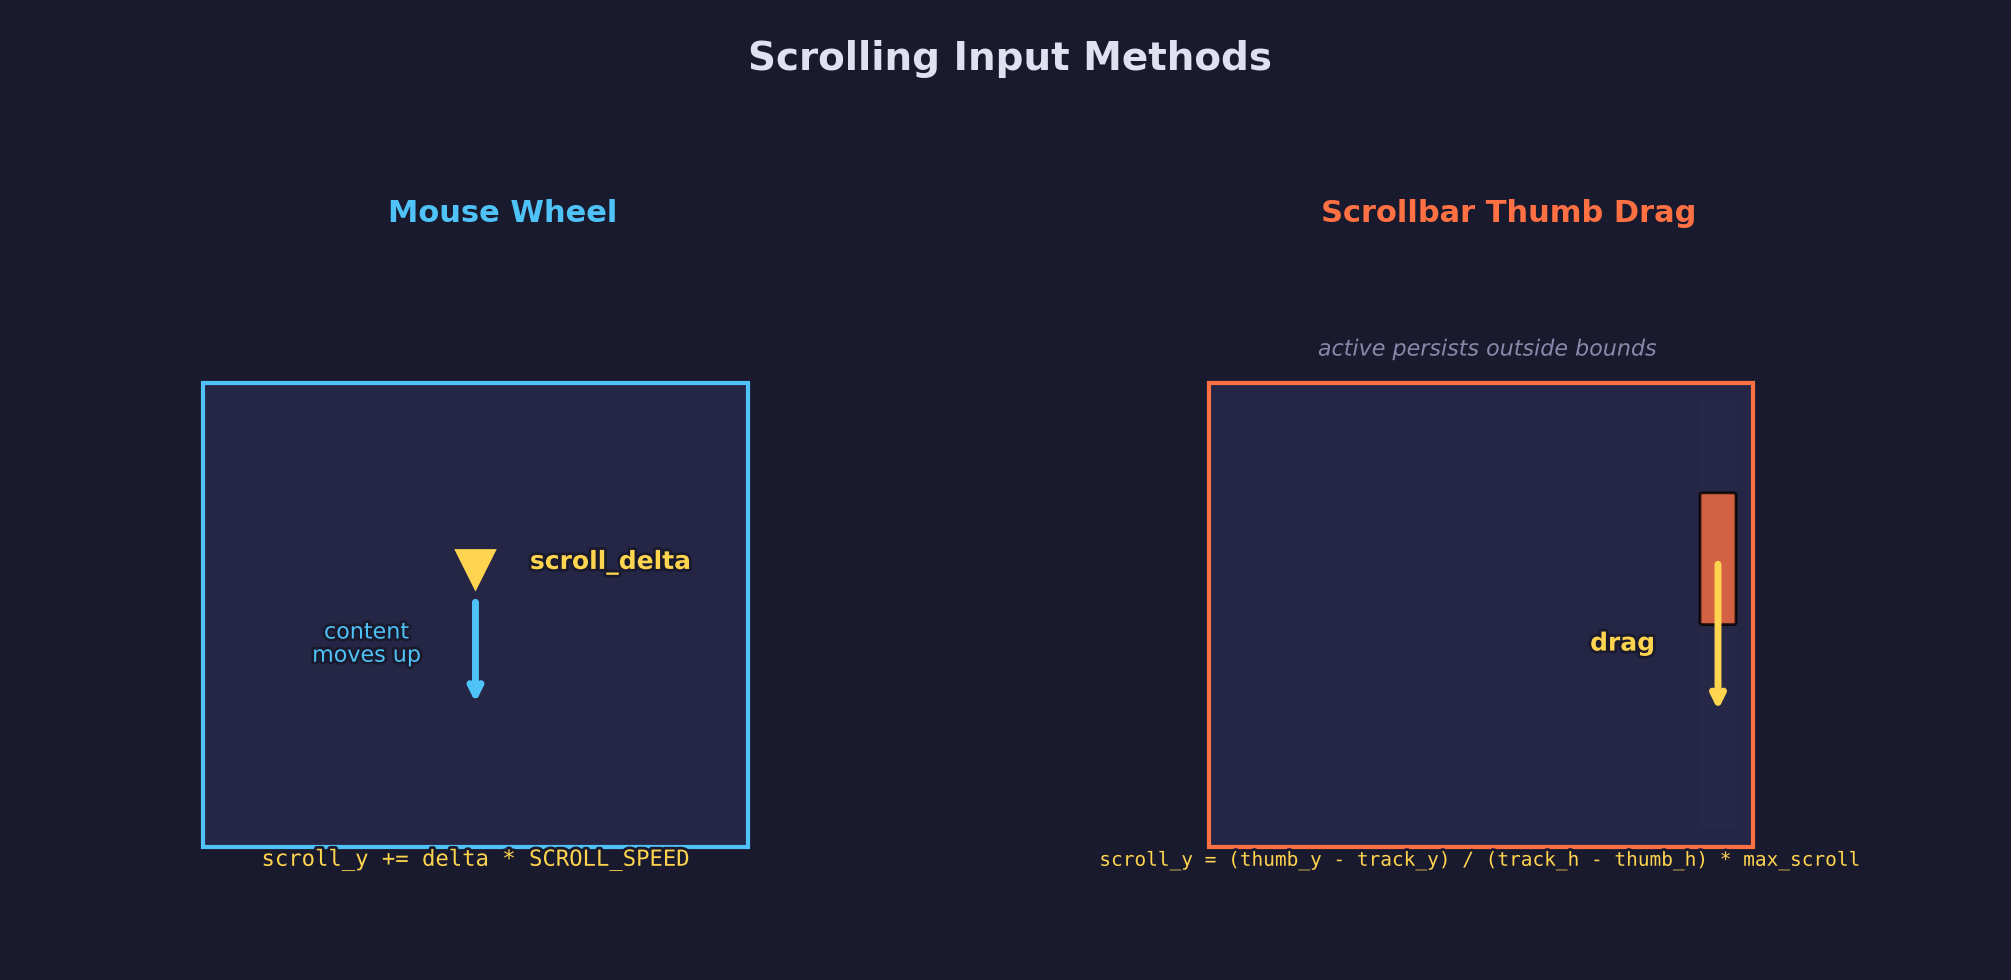
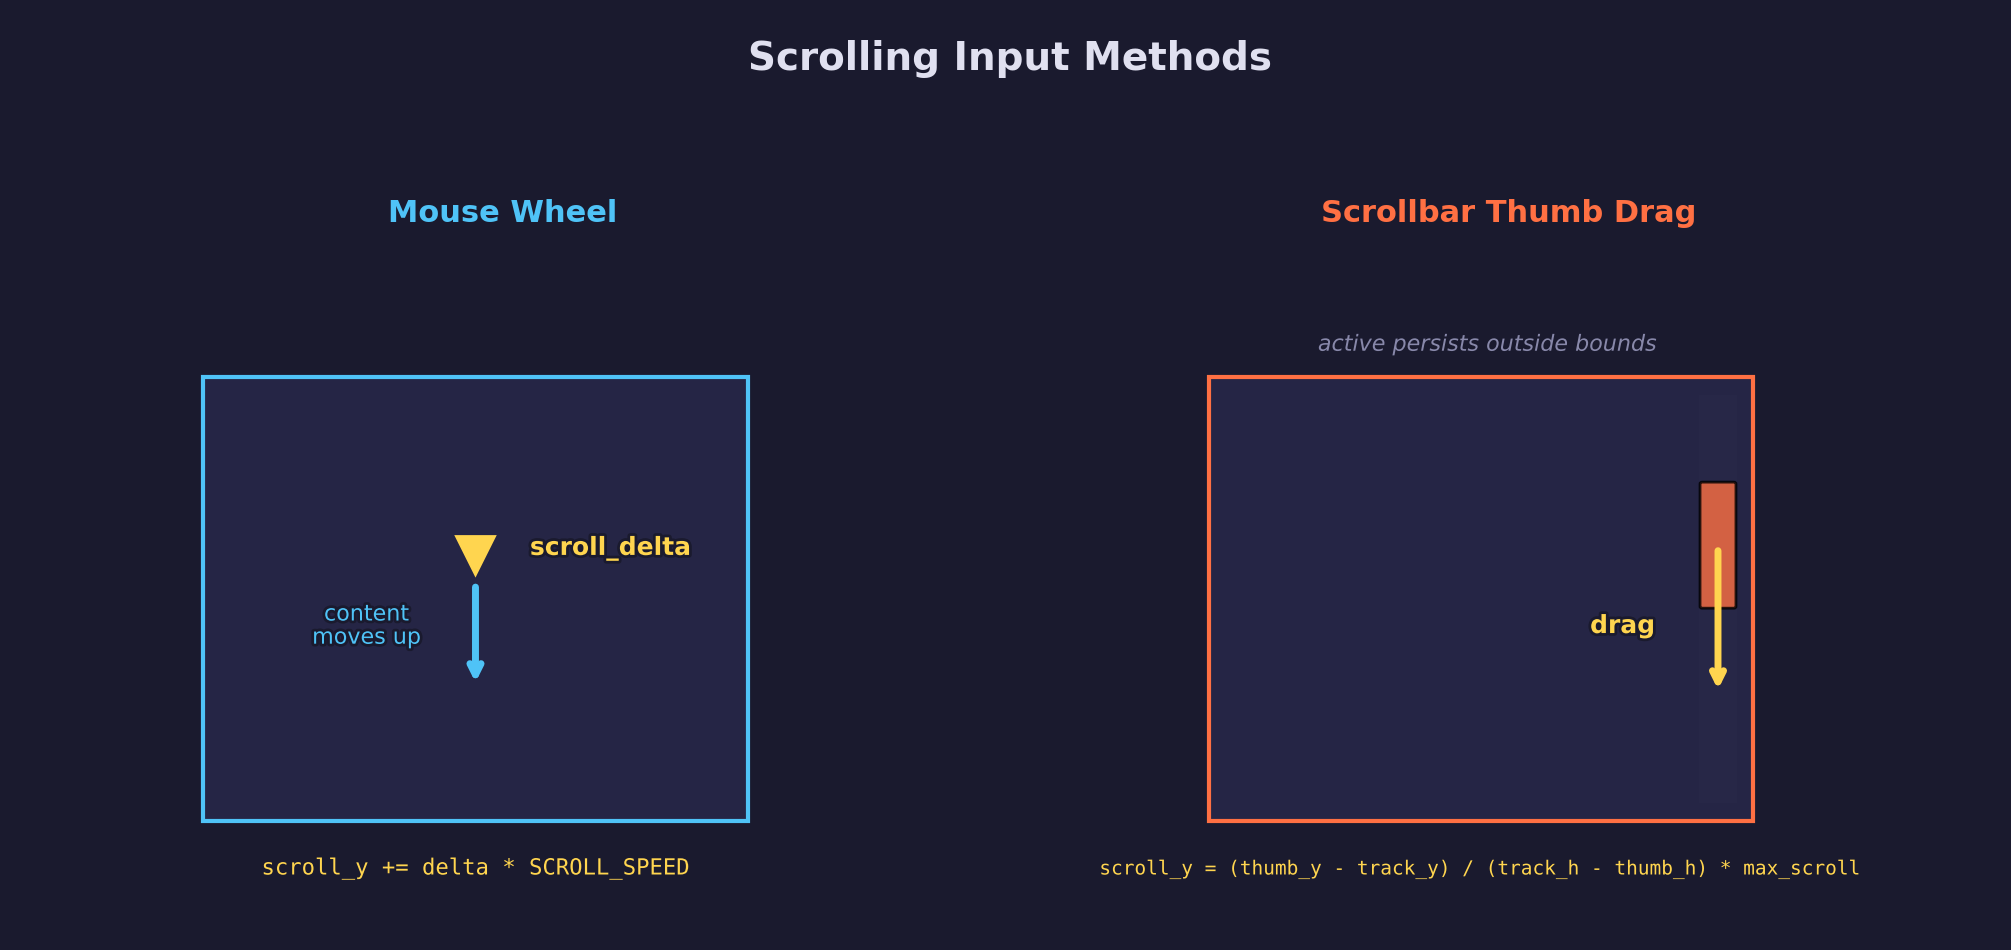
Add padding between formula text and panel boxes in mouse_wheel_and_drag diagram
Move formula labels further below panel rectangles (py - 0.2 -> py - 0.6)
and increase bottom layout margin for breathing room.

https://claude.ai/code/session_01VjDNHe66SCPNVGyREp9o5a

diff --git a/scripts/forge_diagrams/ui_diagrams.py b/scripts/forge_diagrams/ui_diagrams.py
@@ -7077,7 +7077,7 @@ def diagram_mouse_wheel_and_drag():
     # Formula
     ax.text(
         px + pw / 2,
-        py - 0.2,
+        py - 0.6,
         "scroll_y += delta * SCROLL_SPEED",
         color=STYLE["warn"],
         fontsize=8,
@@ -7167,7 +7167,7 @@ def diagram_mouse_wheel_and_drag():
     # Formula
     ax.text(
         px + pw / 2,
-        py - 0.2,
+        py - 0.6,
         "scroll_y = (thumb_y - track_y) / (track_h - thumb_h) * max_scroll",
         color=STYLE["warn"],
         fontsize=7,
@@ -7176,5 +7176,5 @@ def diagram_mouse_wheel_and_drag():
         path_effects=[pe.withStroke(linewidth=2, foreground=STYLE["bg"])],
     )
 
-    fig.tight_layout(rect=[0, 0.05, 1, 0.92])
+    fig.tight_layout(rect=[0, 0.08, 1, 0.92])
     save(fig, "ui/09-panels-and-scrolling", "mouse_wheel_and_drag.png")
